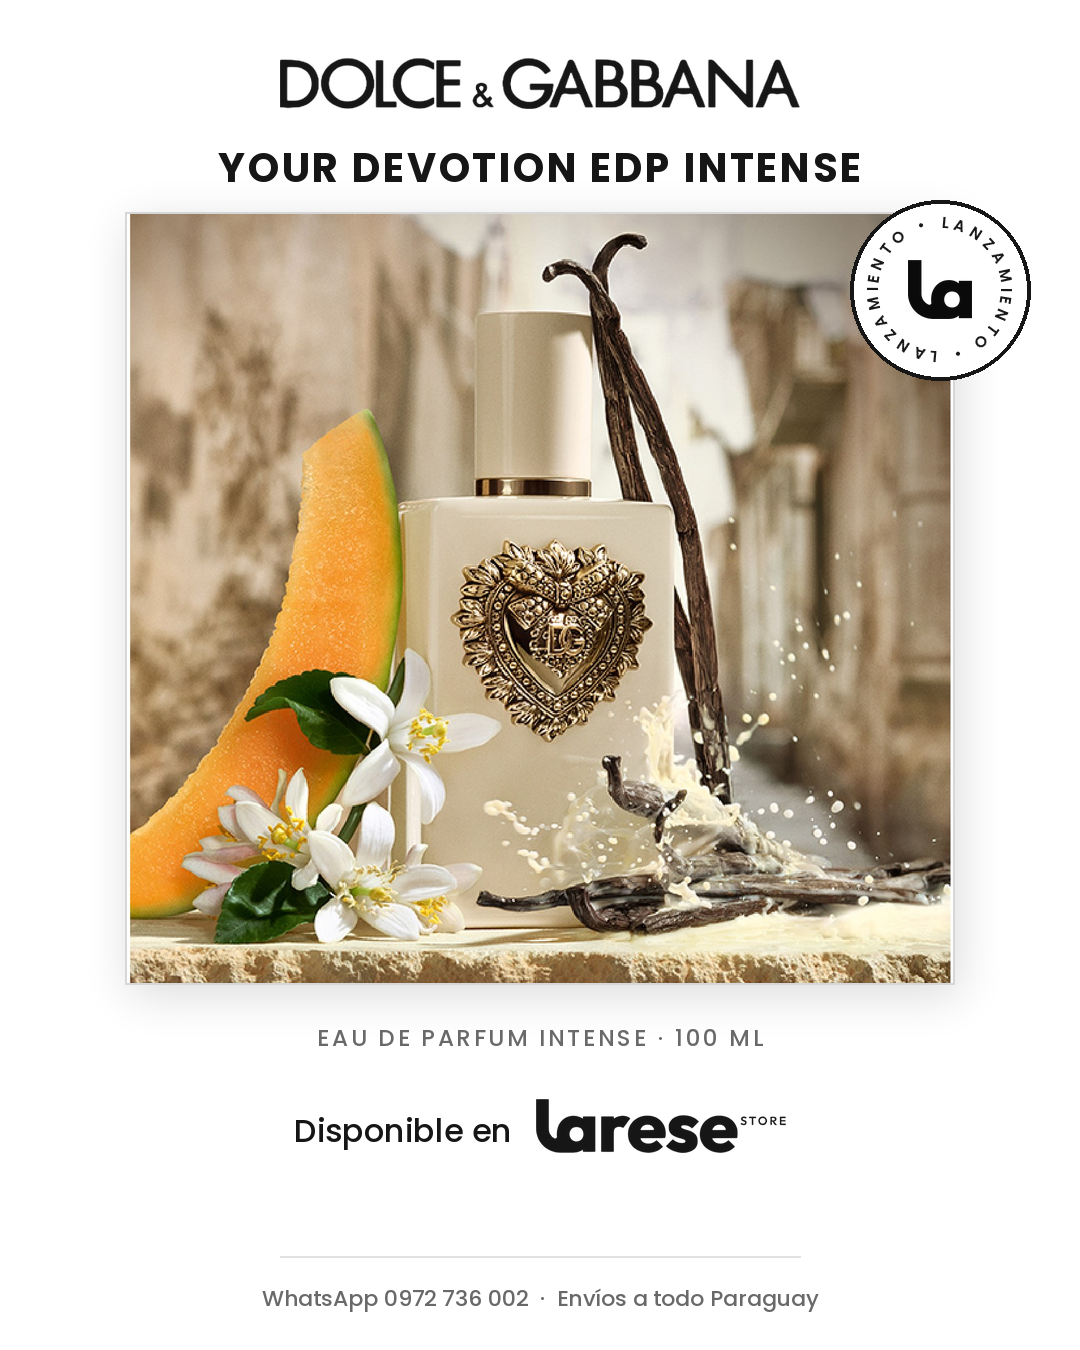
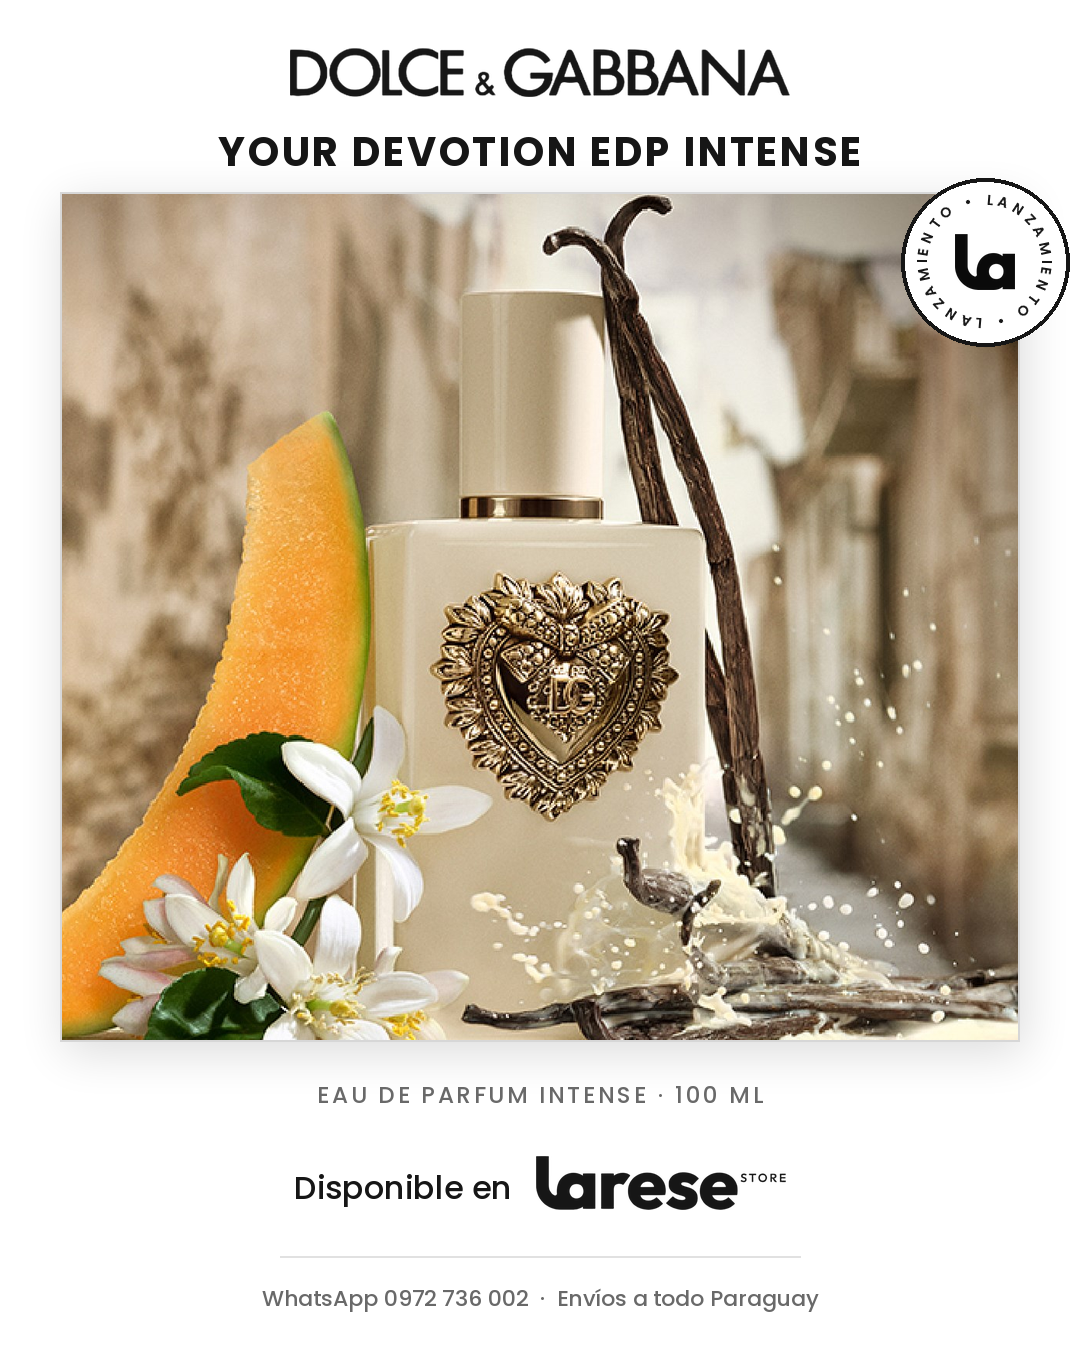
Make the campaign photo larger in Your Devotion story and post
Claude-Session: https://claude.ai/code/session_01DnzkNLBCvMq4y8uu7fepTP

diff --git a/lanzamientos/crear_lanzamiento_foto.py b/lanzamientos/crear_lanzamiento_foto.py
@@ -37,11 +37,11 @@ from crear_pieza import (  # noqa: E402
 )
 
 MEDIDAS = {
-    "historia": dict(size=(1080, 1920), marca_y=215, marca_w=640, titulo_y=318, titulo_t=50,
-                     foto=(60, 420, 1020), recuadro=310, sello=(935, 515, 108),
-                     medida_t=46, pie_y=1660),
-    "post": dict(size=(1080, 1350), marca_y=58, marca_w=520, titulo_y=140, titulo_t=40,
-                 foto=(125, 212, 955), recuadro=265, sello=(940, 290, 90),
+    "historia": dict(size=(1080, 1920), marca_y=200, marca_w=640, titulo_y=300, titulo_t=50,
+                     foto=(40, 392, 1040), alto_max=1030, recuadro=310, sello=(965, 480, 104),
+                     medida_t=46, pie_y=1700),
+    "post": dict(size=(1080, 1350), marca_y=48, marca_w=500, titulo_y=124, titulo_t=40,
+                 foto=(60, 192, 1020), alto_max=850, recuadro=265, sello=(985, 262, 84),
                  medida_t=38, pie_y=1282),
 }
 
@@ -77,6 +77,10 @@ def armar(SPEC, formato):
         foto = foto.crop(tuple(SPEC["foto_recorte"]))
     fw = fx1 - fx0
     foto = foto.resize((fw, int(foto.height * fw / foto.width)), Image.LANCZOS)
+    sobra = foto.height - M.get("alto_max", foto.height)
+    if sobra > 0:  # recorta lo que no entra: un poco arriba y más abajo
+        arriba = int(sobra * 0.35)
+        foto = foto.crop((0, arriba, fw, arriba + M["alto_max"]))
     fy1 = fy0 + foto.height
     sombra(img, (fx0, fy0, fx1, fy1), 22, 0.14)
     img.alpha_composite(foto.convert("RGBA"), (fx0, fy0))
